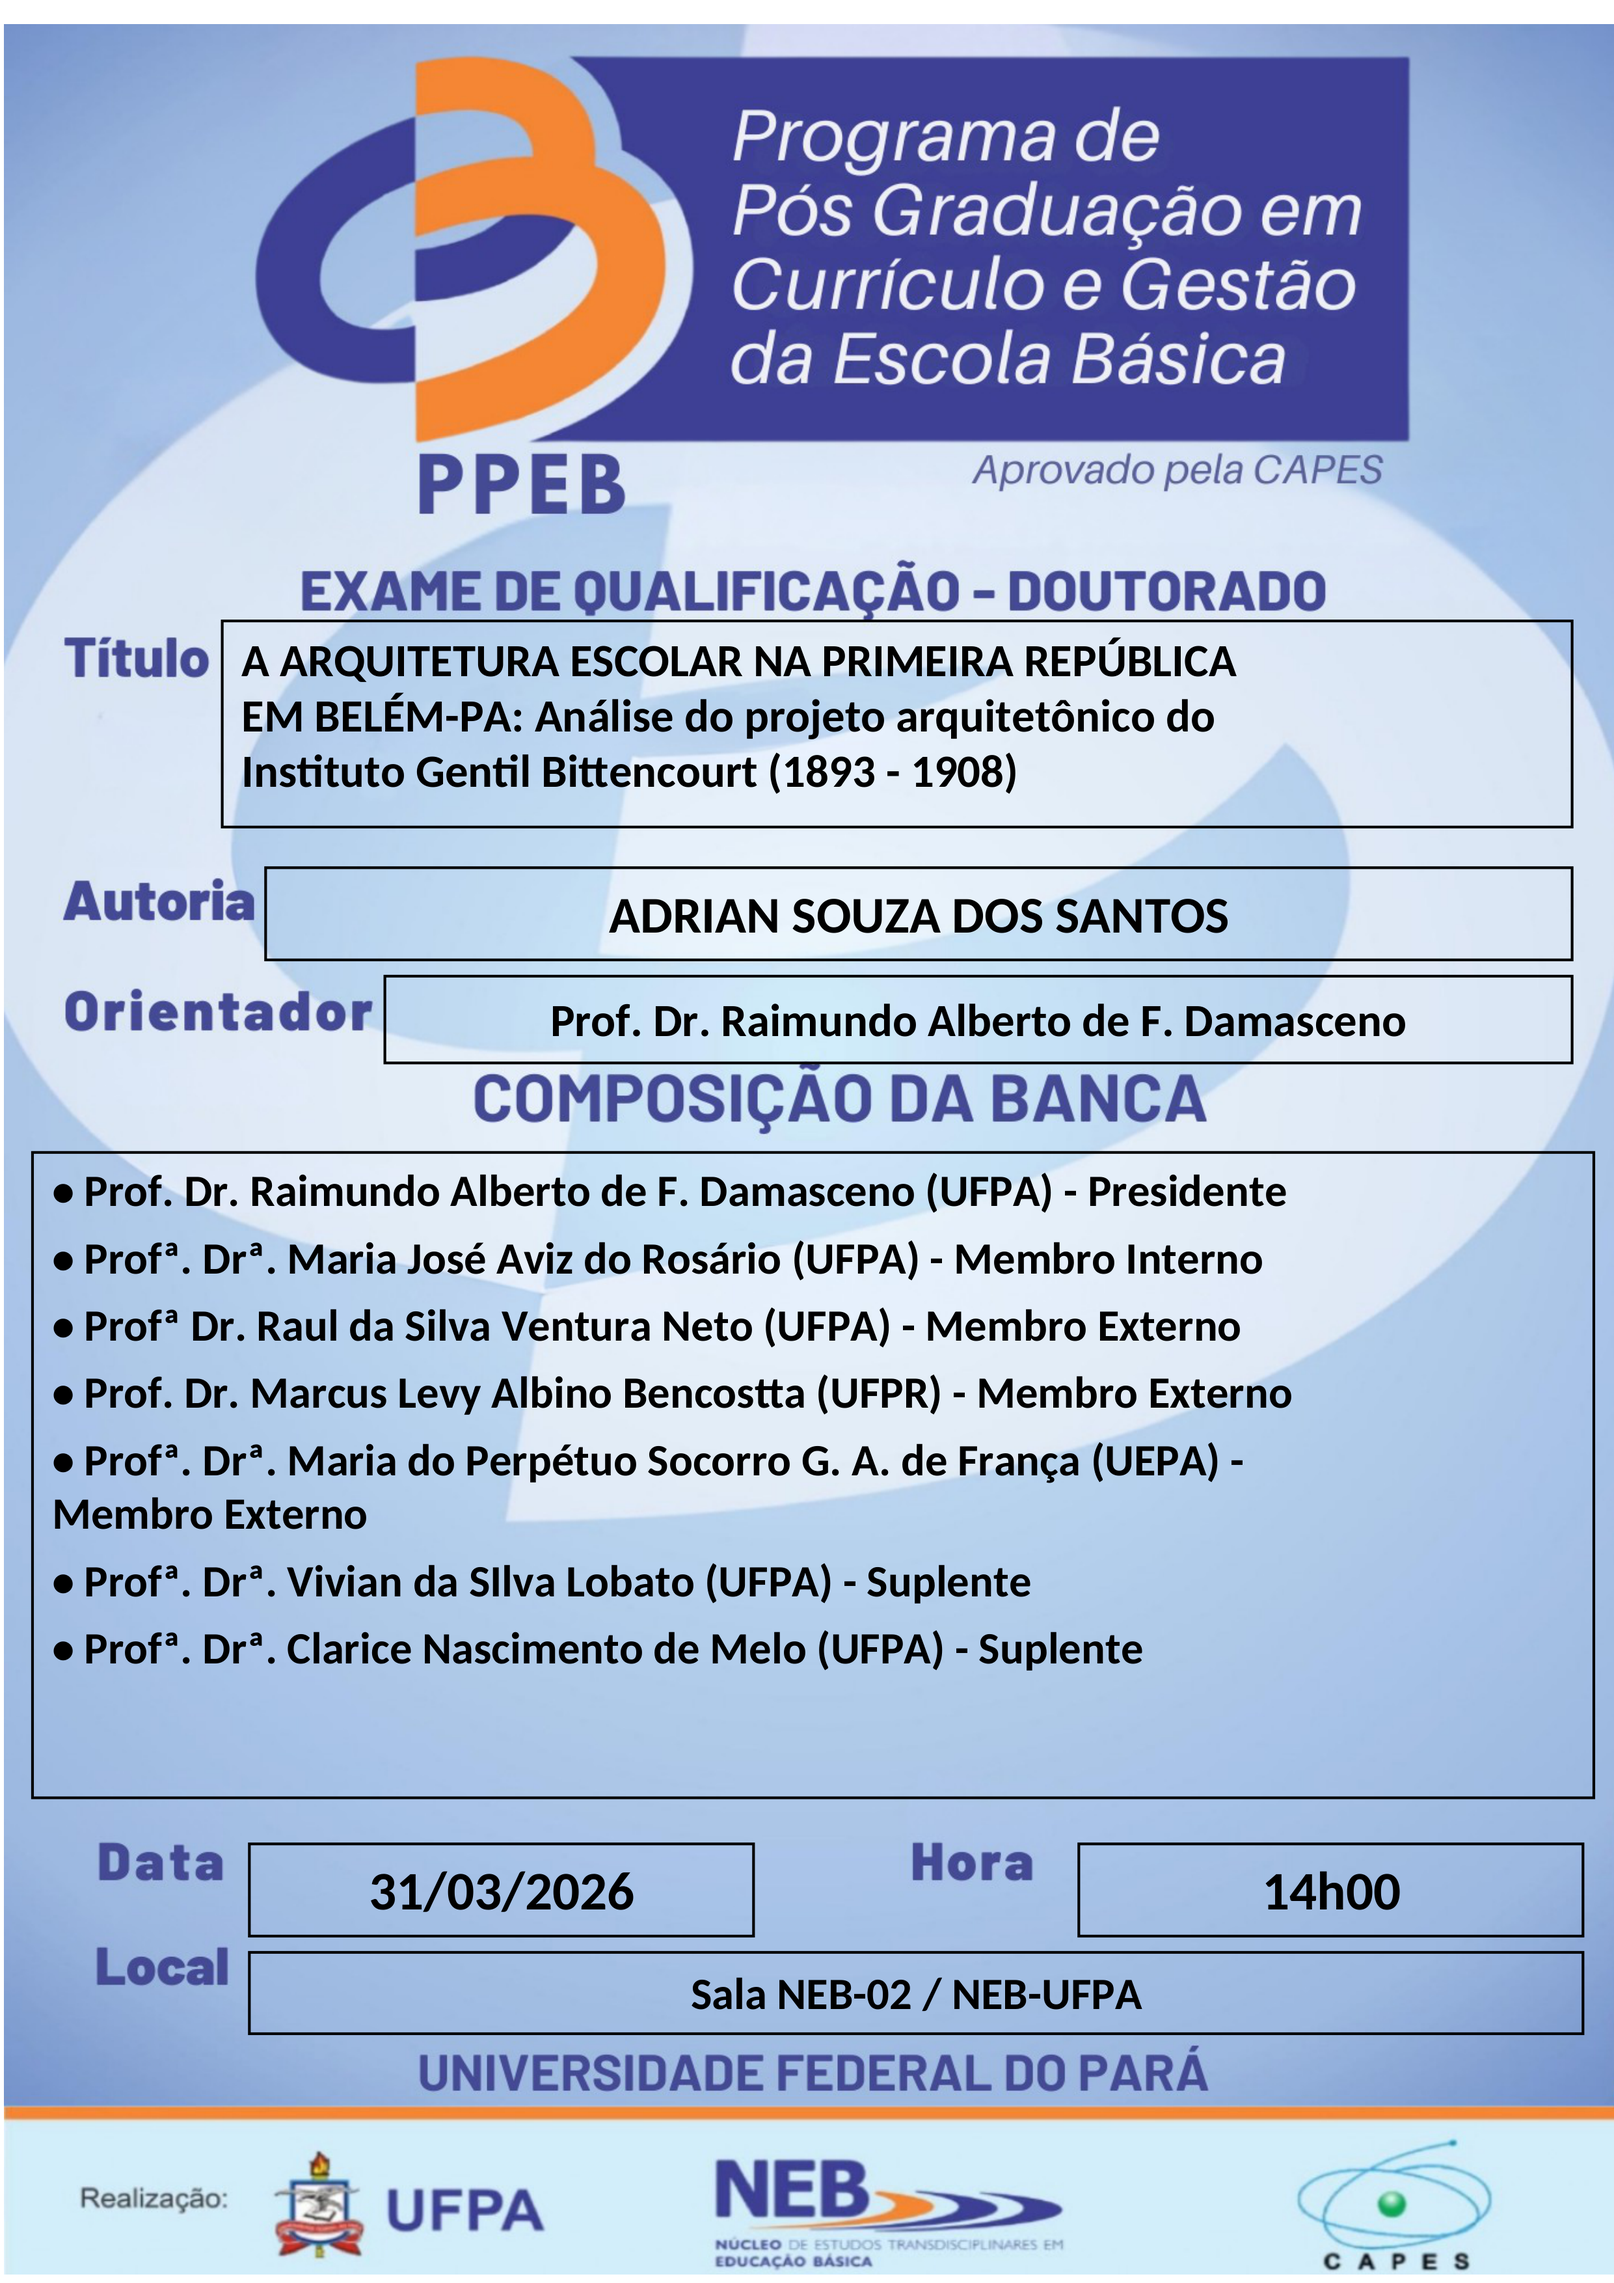
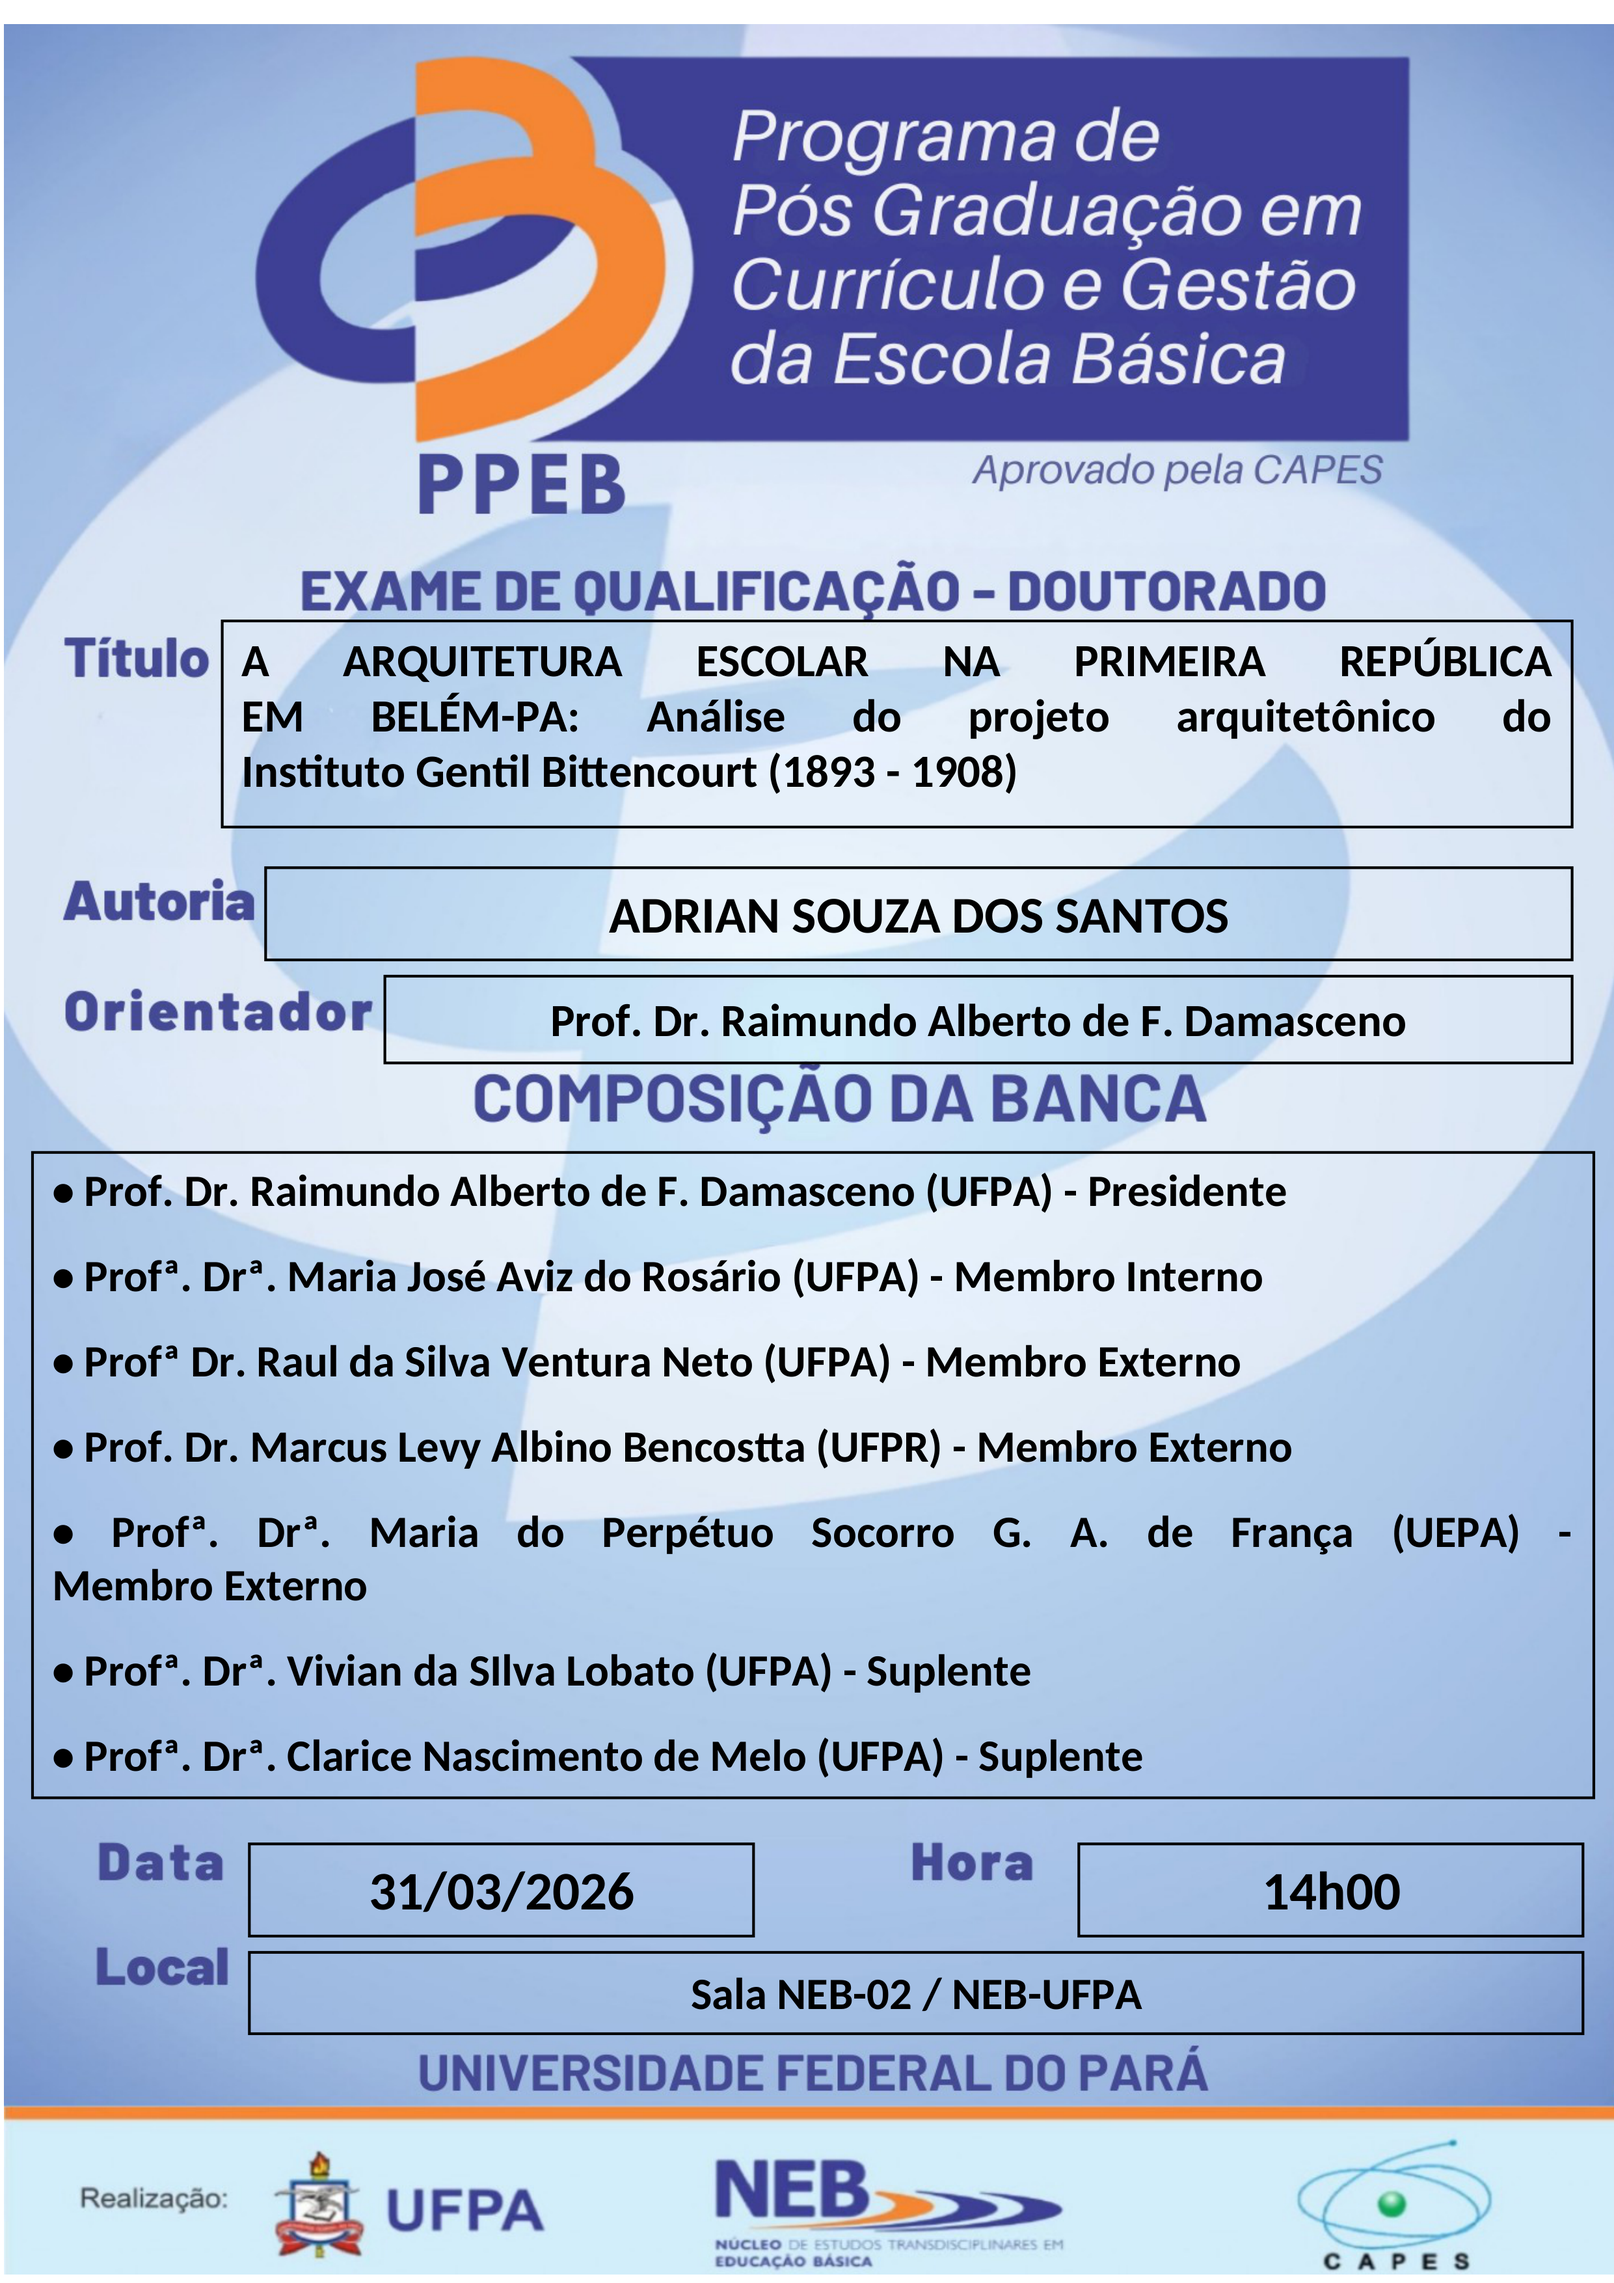
Justifica título e banca e distribui espaço entre os membros

Changed region(s): [[0.031, 0.5282, 0.838, 0.7768], [0.1862, 0.2796, 0.9621, 0.3418], [0.869, 0.6525, 0.9311, 0.6836]]

diff --git a/qualificacao_doutorado/tests/test_automacao.py b/qualificacao_doutorado/tests/test_automacao.py
@@ -165,6 +165,24 @@ class AutomacaoTest(unittest.TestCase):
                 fallback = tree.xpath(f'//v:shape[@id="PPEB_{chave}"]//w:t/text()', namespaces=NS)
                 self.assertEqual(modern, fallback)
 
+    def test_titulo_e_banca_justificados_e_espaco_distribuido(self):
+        self.assertEqual(self.executar(), 0)
+        with ZipFile(next((self.root / 'saida').glob('*/Cartaz*.docx'))) as z:
+            tree = etree.fromstring(z.read('word/document.xml'))
+            for caminho in ('//wp:anchor[wp:docPr/@name="PPEB_{chave}"]',
+                            '//v:shape[@id="PPEB_{chave}"]'):
+                for chave in ('titulo', 'banca'):
+                    paragrafos = tree.xpath(caminho.format(chave=chave) + '//w:txbxContent/w:p', namespaces=NS)
+                    self.assertTrue(paragrafos)
+                    self.assertTrue(all(p.xpath('./w:pPr/w:jc/@w:val', namespaces=NS) == ['both']
+                                        for p in paragrafos))
+                    if chave == 'banca':
+                        espacos = [int(p.xpath('./w:pPr/w:spacing/@w:after', namespaces=NS)[0])
+                                   for p in paragrafos]
+                        self.assertEqual(espacos[-1], 0)
+                        self.assertTrue(all(e > 100 for e in espacos[:-1]))
+                        self.assertEqual(len(set(espacos[:-1])), 1)
+
     def test_texto_impossivel_de_encaixar_falha_sem_cortar(self):
         self.alterar("Título", "Texto enorme " * 1000)
         self.assertEqual(self.executar(), 1)
@@ -270,6 +288,21 @@ class AutomacaoTest(unittest.TestCase):
             self.assertEqual(conferir_pdf(pdf, ctx), [])
             with pymupdf.open(pdf) as doc:
                 self.assertEqual(len(doc), 1)
+                banca = CAIXAS['banca']
+                area_banca = pymupdf.Rect(banca.x, banca.y, banca.x + banca.largura, banca.y + banca.altura)
+                palavras = doc[0].get_text('words', clip=area_banca)
+                # O último membro ocupa a parte inferior, sem encostar na borda.
+                sobra = area_banca.y1 - max(p[3] for p in palavras)
+                self.assertGreater(sobra, 0)
+                self.assertLess(sobra, 12)
+                if not alteracoes:
+                    titulo = CAIXAS['titulo']
+                    area = pymupdf.Rect(titulo.x, titulo.y, titulo.x + titulo.largura, titulo.y + titulo.altura)
+                    blocos = doc[0].get_text('dict', clip=area)['blocks']
+                    linhas = [l for b in blocos for l in b.get('lines', [])]
+                    self.assertGreater(len(linhas), 1)
+                    for linha in linhas[:-1]:
+                        self.assertAlmostEqual(linha['bbox'][2], area.x1 - 7, delta=2)
                 # Verifica os retângulos efetivamente desenhados, além das âncoras do DOCX.
                 rects = [d["rect"] for d in doc[0].get_drawings()]
                 for caixa in CAIXAS.values():

diff --git a/qualificacao_doutorado/layout.py b/qualificacao_doutorado/layout.py
@@ -50,6 +50,7 @@ def largura_texto(texto, fonte):
 class Composicao:
     fonte: float
     paragrafos: list[list[str]]
+    espaco_paragrafos: float = 0
 
 
 def normalizar(texto):
@@ -89,11 +90,14 @@ def compor(chave, textos, limite=None):
     altura = caixa.altura - 2 * MARGEM_Y - 2
     def tentar(fonte):
         paragrafos = [quebrar_linhas(t, largura, fonte) for t in textos if t.strip()]
-        altura_texto = sum(len(p) for p in paragrafos) * fonte * 1.2
-        if chave == "banca":
-            altura_texto += max(0, len(paragrafos) - 1) * 5
+        altura_linhas = sum(len(p) for p in paragrafos) * fonte * 1.2
+        intervalos = max(0, len(paragrafos) - 1) if chave == "banca" else 0
+        altura_texto = altura_linhas + intervalos * 5
         if altura_texto <= altura:
-            return Composicao(fonte, paragrafos)
+            # Distribui o espaço livre entre os membros, em vez de deixá-lo
+            # acumulado abaixo do último. Arredonda para baixo em twips.
+            espaco = math.floor((altura - altura_linhas) / intervalos * 20) / 20 if intervalos else 0
+            return Composicao(fonte, paragrafos, espaco)
         return None
 
     # Rejeita textos impossíveis antes de medir todos os tamanhos intermediários.
@@ -128,9 +132,9 @@ def paragrafos_xml(chave, composicao):
         p = elemento("w:p")
         props = elemento("w:pPr")
         props.append(elemento("w:spacing", before=0,
-                              after=100 if chave == "banca" and i < len(composicao.paragrafos) - 1 else 0,
+                              after=round(composicao.espaco_paragrafos * 20) if i < len(composicao.paragrafos) - 1 else 0,
                               line=round(composicao.fonte * 1.2 * 20), lineRule="exact"))
-        props.append(elemento("w:jc", val="center" if CAIXAS[chave].centro else "left"))
+        props.append(elemento("w:jc", val="center" if CAIXAS[chave].centro else "both"))
         props.append(elemento("w:widowControl", val=0))
         p.append(props)
         r = elemento("w:r")

diff --git a/qualificacao_doutorado/README.md b/qualificacao_doutorado/README.md
@@ -10,6 +10,9 @@ O ajuste abrange título, autoria, orientador, banca, data, hora e local. Na
 exportação, confere o texto visível de cada caixa no PDF e, se necessário, reduz
 a fonte novamente antes de gerar a imagem. O tamanho mínimo é 8 pontos; textos
 que ainda não caibam causam erro, sem entregar um cartaz cortado.
+Título e composição da banca usam alinhamento justificado. O espaço livre da
+caixa da banca é distribuído entre os membros, mantendo as posições das caixas
+e evitando uma área vazia excessiva abaixo do último nome.
 
 Na mesma execução, também gera o **convite da banca** com o modelo enviado,
 preservando a arte e a assinatura da coordenação. Aluno, título, data, hora,
